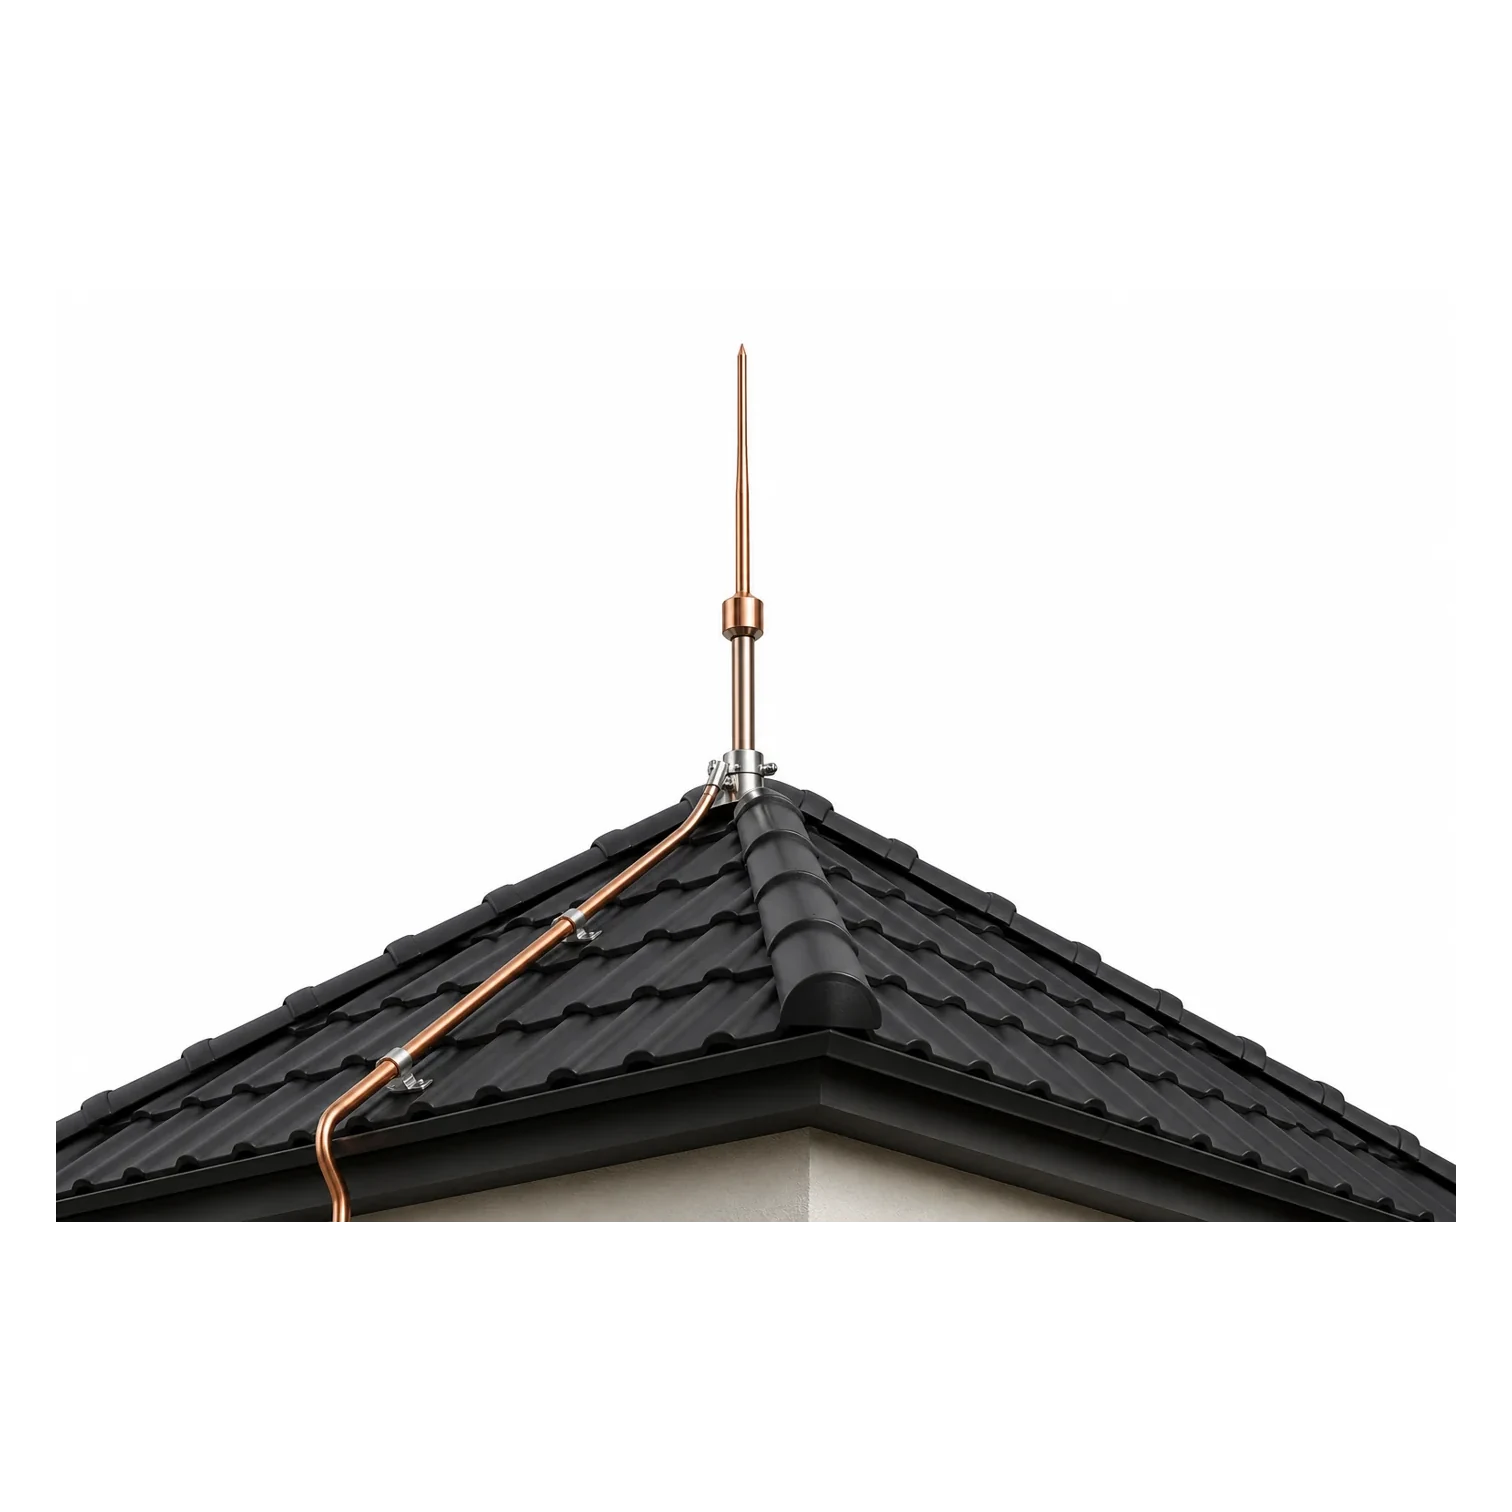
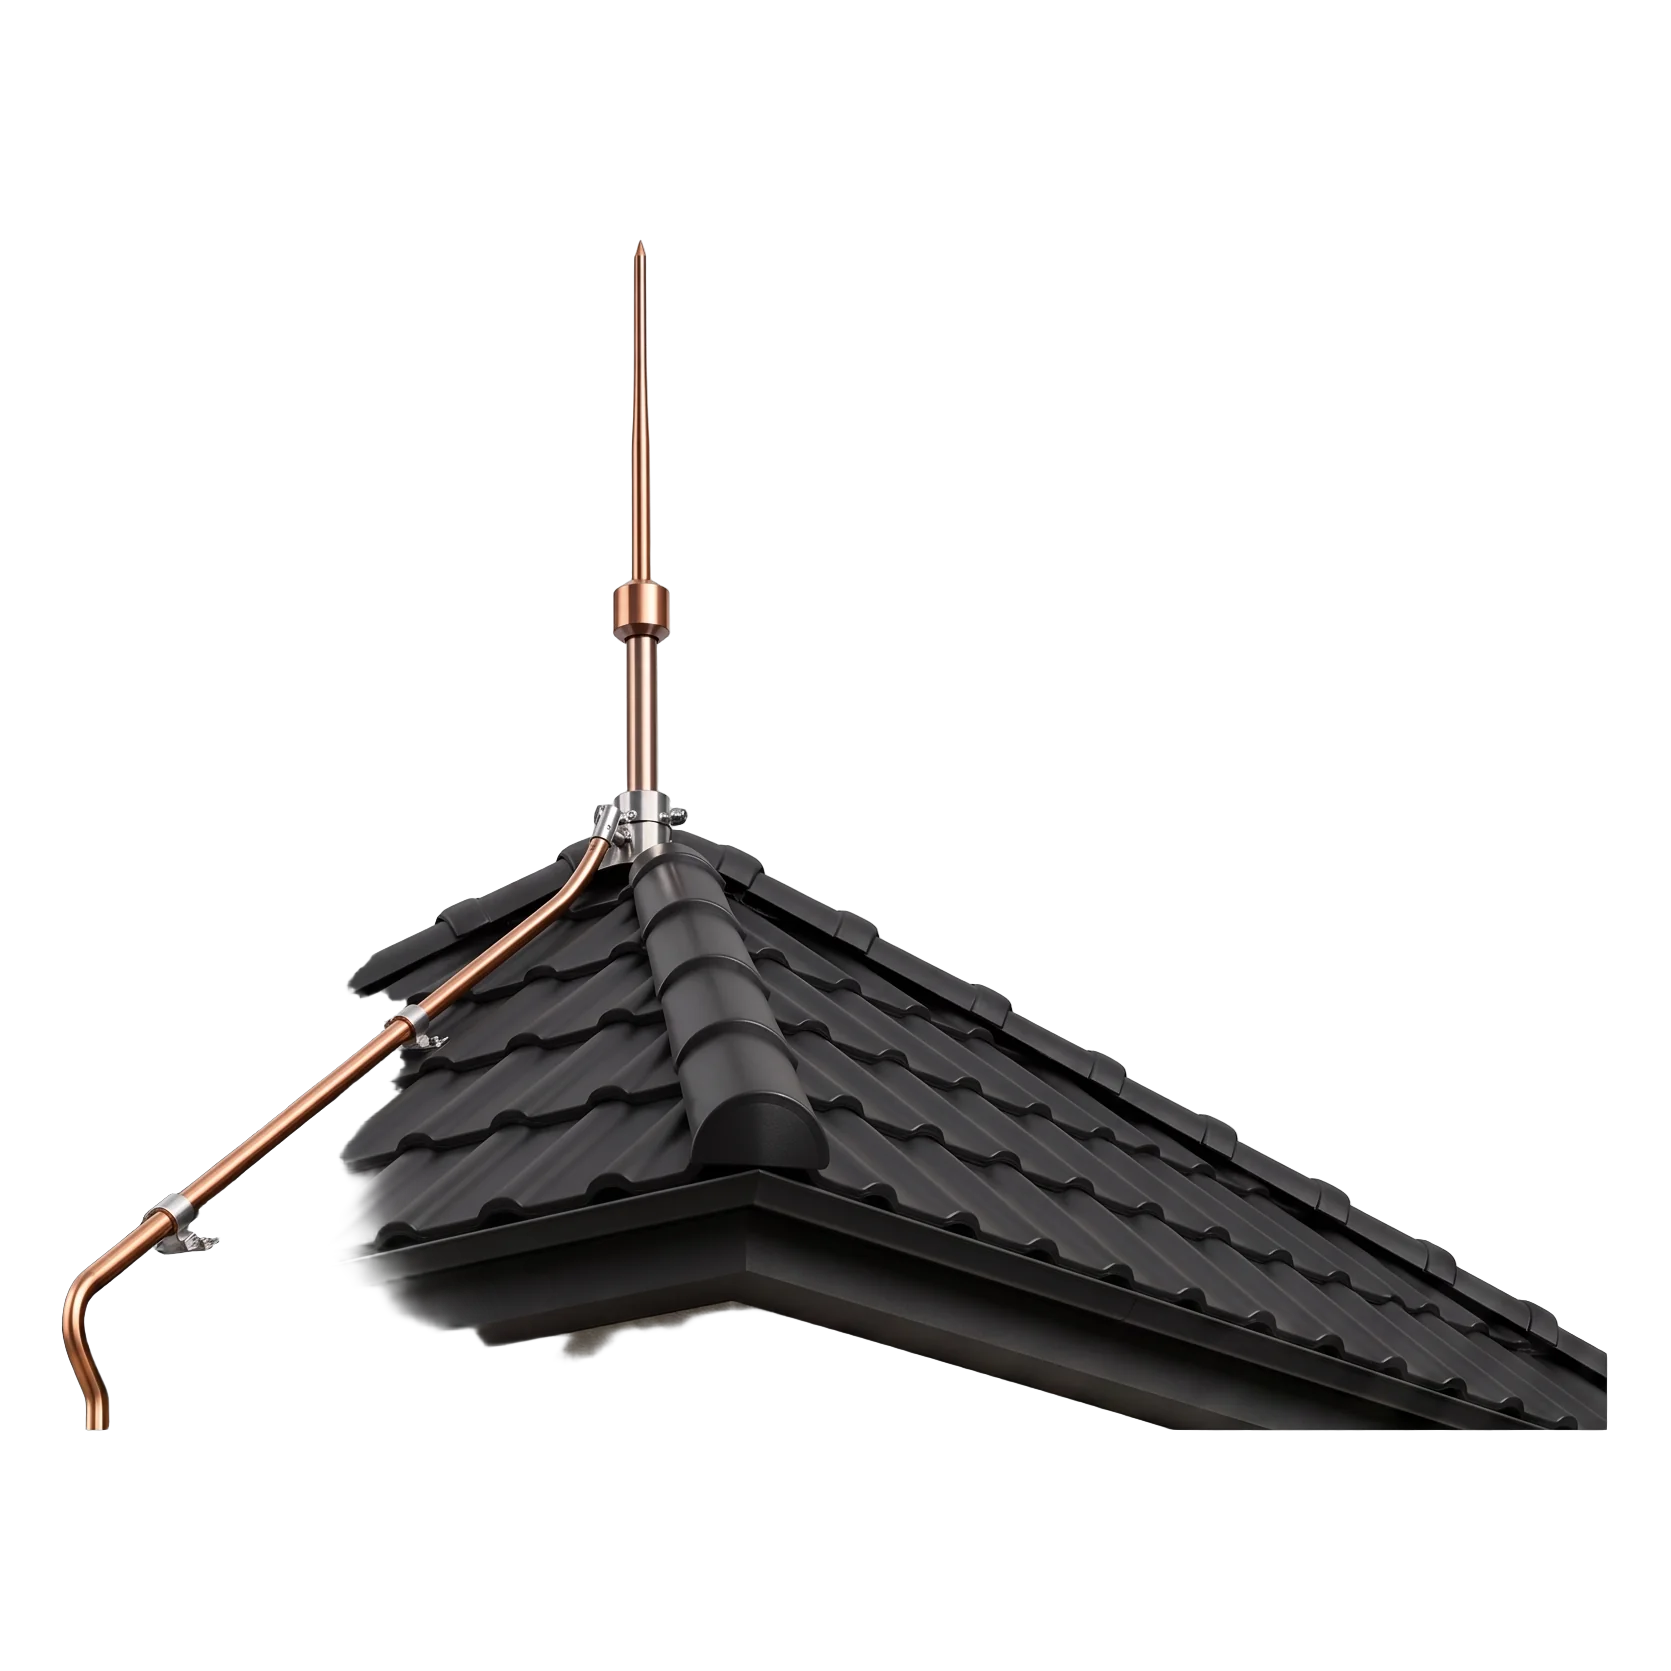
1

Changed region(s): [[0.0311, 0.1554, 0.9636, 0.8704]]

diff --git a/src/routes/index.tsx b/src/routes/index.tsx
@@ -18,6 +18,9 @@ import {
   CheckCircle2,
   Menu,
   X,
+  Handshake,
+  CalendarDays,
+  Truck,
 } from "lucide-react";
 import logo from "@/assets/mlm-logo.svg";
 import heroImage from "@/assets/hero-elektro.jpg";
@@ -162,7 +165,8 @@ const montazeCategories = [
       "Prípojky NN (nízke napätie)",
       "Projekcia a realizácia VN trafostaníc — zmluvný partner SSD",
       "Rozvádzače a ich osadenie",
-      "Elektroprojekty a dokumentácia",
+      "Projektová dokumentácia elektrického vedenia — NN, VN, VVN aj ZVN",
+      "Návrhy a statické posúdenia podporných bodov líniových stavieb",
       "Poradenská a inžinierska činnosť",
       "Údržba, servis a opravy",
       "Pretlaky pod cestou a chodníkom (rakety Grundomat, Atlas Copco)",
@@ -265,7 +269,7 @@ const revizie = [
   {
     icon: Gauge,
     title: "Účinník cos φ a kvalita siete",
-    desc: "Platíte za jalový výkon? Zmeriame účinník, harmonické skreslenie a výkyvy napätia a navrhneme kompenzáciu — investícia sa zvyčajne vráti do 12 mesiacov.",
+    desc: "Platíte za jalový výkon? Zmeriame účinník, harmonické skreslenie a výkyvy napätia a navrhneme kompenzáciu aj dekompenzáciu — vždy na mieru podľa nameraných hodnôt konkrétneho odberu, nie podľa šablóny. Investícia sa zvyčajne vráti do 12 mesiacov.",
   },
 ];
 
@@ -309,9 +313,9 @@ const rentals = [
   },
   {
     img: skidSteer,
-    title: "UNC nakladače",
+    title: "Locust 060",
     slogan: "Sila do úzkych miest",
-    desc: "Kompaktné šmykom riadené nakladače na presun materiálu a úpravy terénu.",
+    desc: "Kompaktný šmykom riadený nakladač na presun materiálu a úpravy terénu.",
   },
   {
     img: boomLift,
@@ -324,6 +328,12 @@ const rentals = [
     title: "Elektrocentrály",
     slogan: "Prúd aj tam, kde nie je zásuvka",
     desc: "Mobilné zdroje energie pre stavby, akcie a záložné napájanie prevádzok.",
+  },
+  {
+    icon: Truck,
+    title: "MAN TGS 41.500 8x6",
+    slogan: "Palfinger PK92002 — ťažký kalibr",
+    desc: "Nákladný hydraulický žeriav pre presun a osadenie ťažkých bremien priamo na stavbe.",
   },
 ];
 
@@ -367,11 +377,11 @@ const sortiment = [
 ];
 
 const stats = [
-  { num: "17+", label: "Rokov skúseností" },
-  { num: "52 kV", label: "Revízie do napätia" },
-  { num: "ISO", label: "Certifikát 9001" },
-  { num: "2", label: "Predajne v Prievidzi" },
-  { num: "SSD", label: "Zmluvný partner" },
+  { icon: CalendarDays, text: "17+ rokov" },
+  { icon: Zap, text: "52 kV" },
+  { icon: ShieldCheck, text: "ISO 9001" },
+  { icon: MapPin, text: "2 predajne" },
+  { icon: Handshake, text: "SSD partner" },
 ];
 
 const OWNER_PHONE = "0918 812 027";
@@ -527,42 +537,65 @@ function Index() {
           aria-hidden
           className="pointer-events-none absolute inset-x-0 bottom-0 h-px bg-gradient-to-r from-transparent via-primary to-transparent opacity-60"
         />
-        <div className="relative mx-auto max-w-7xl px-5 py-20 md:py-28">
-          <div className="grid items-center gap-12 lg:grid-cols-[1.05fr_0.95fr]">
-            <div>
-          <p className="inline-flex items-center gap-2 rounded-full border border-primary/25 bg-primary/5 px-4 py-1.5 font-mono text-xs font-semibold uppercase tracking-[0.35em] text-muted-foreground">
-            <span className="text-primary">M</span>eranie · <span className="text-primary">L</span>okalizácia ·{" "}
-            <span className="text-primary">M</span>ontáž
-          </p>
-          <h1 className="mt-7 max-w-[16ch] text-5xl uppercase italic leading-[0.95] tracking-tight md:text-7xl lg:text-8xl">
-            Napätie, ktoré{" "}
-            <span className="relative inline-block text-primary">
-              nesklame
-              <span
-                aria-hidden
-                className="absolute -bottom-1 left-0 h-[6px] w-full bg-primary/25 [clip-path:polygon(0_60%,100%_0,100%_100%,0%_100%)]"
-              />
-            </span>
-          </h1>
-          <p className="mt-7 max-w-xl text-lg text-muted-foreground">
-            Elektroinštalačný materiál, svietidlá a profi náradie, prenájom bágrov, UNC, plošín a elektrocentrál —
-            k tomu odborné revízie a merania do 52 kV, lokalizácia porúch aj fotovoltika. Prievidza od roku 2007.
-          </p>
-          <div className="mt-9 flex flex-wrap gap-3">
-            <a
-              href="#kontakt"
-              className="btn-shine rounded-full bg-primary px-7 py-3.5 font-mono text-xs font-semibold uppercase tracking-[0.14em] text-primary-foreground shadow-[0_14px_30px_-14px_color-mix(in_oklab,var(--brand-red)_80%,transparent)] transition-colors hover:bg-brand-dark"
-            >
-              Nezáväzná ponuka
-            </a>
-            <a
-              href="#revizie"
-              className="rounded-full border-2 border-foreground px-7 py-3.5 font-mono text-xs font-semibold uppercase tracking-[0.14em] transition-colors hover:bg-foreground hover:text-background"
-            >
-              Objednať revíziu →
-            </a>
-          </div>
+        <div className="relative mx-auto max-w-7xl px-5 py-20 md:py-28 lg:py-32">
+          <div className="grid items-center gap-12 lg:grid-cols-[1.1fr_0.9fr] lg:gap-16">
+            <div className="max-w-2xl">
+              <h1 className="text-4xl font-extrabold uppercase italic leading-[0.95] tracking-tight md:text-6xl lg:text-7xl">
+                Elektroinštalácie, revízie a prenájom techniky
+              </h1>
+              <p className="mt-4 text-xl font-medium italic text-primary md:text-2xl">
+                Napätie, ktoré nesklame
+              </p>
+              <p className="mt-6 max-w-xl text-sm font-mono font-semibold uppercase leading-relaxed tracking-[0.16em] text-muted-foreground">
+                Od roku 2007 · Revízie do 52 kV · Fotovoltika · Prenájom bágrov, plošín a elektrocentrál · Zmluvný
+                partner SSD
+              </p>
+
+              <div className="mt-8 flex flex-wrap items-center gap-2 md:flex-nowrap">
+                {stats.map((s) => {
+                  const Icon = s.icon;
+                  return (
+                    <div
+                      key={s.text}
+                      className="flex items-center gap-1.5 rounded-full border border-border bg-secondary px-3 py-1.5"
+                    >
+                      <Icon className="h-3.5 w-3.5 text-primary" strokeWidth={2} />
+                      <span className="font-mono text-[0.6rem] font-semibold uppercase tracking-wider text-foreground">
+                        {s.text}
+                      </span>
+                    </div>
+                  );
+                })}
+              </div>
+
+              <div className="mt-10 grid grid-cols-2 gap-3 sm:flex sm:flex-wrap">
+                <a
+                  href="#revizie"
+                  className="btn-shine rounded-full bg-primary px-6 py-3.5 text-center font-mono text-xs font-semibold uppercase tracking-[0.12em] text-primary-foreground shadow-[0_14px_30px_-14px_color-mix(in_oklab,var(--brand-red)_80%,transparent)] transition-colors hover:bg-brand-dark"
+                >
+                  Revízie
+                </a>
+                <a
+                  href="#prenajom"
+                  className="rounded-full border-2 border-foreground px-6 py-3.5 text-center font-mono text-xs font-semibold uppercase tracking-[0.12em] transition-colors hover:bg-foreground hover:text-background"
+                >
+                  Prenájom
+                </a>
+                <a
+                  href="#montaze"
+                  className="rounded-full border border-border bg-card px-6 py-3.5 text-center font-mono text-xs font-semibold uppercase tracking-[0.12em] text-foreground transition-colors hover:border-primary/50 hover:bg-secondary"
+                >
+                  Fotovoltika
+                </a>
+                <a
+                  href="#kontakt"
+                  className="rounded-full border border-border bg-card px-6 py-3.5 text-center font-mono text-xs font-semibold uppercase tracking-[0.12em] text-foreground transition-colors hover:border-primary/50 hover:bg-secondary"
+                >
+                  Kontakt
+                </a>
+              </div>
             </div>
+
             <div className="frame-brand relative overflow-hidden shadow-[0_30px_70px_-40px_color-mix(in_oklab,var(--brand-red)_75%,transparent)]">
               <img
                 src={heroImage}
@@ -576,34 +609,14 @@ function Index() {
                 className="pointer-events-none absolute inset-0 rounded-2xl bg-gradient-to-tr from-foreground/40 via-transparent to-primary/15"
               />
               <div className="absolute bottom-4 left-4 flex items-center gap-3 rounded-xl bg-background/92 px-4 py-2.5 shadow-lg backdrop-blur">
-                <img
-                  src={logo}
-                  alt="ELEKTRO-MLM"
-                  width={160}
-                  height={80}
-                  className="h-7 w-auto md:h-8"
-                />
+                <img src={logo} alt="ELEKTRO-MLM" width={160} height={80} className="h-7 w-auto md:h-8" />
                 <span className="hidden font-mono text-[0.6rem] font-semibold uppercase leading-tight tracking-[0.16em] text-muted-foreground sm:block">
                   Revízie · Prenájom
                   <br />
                   Fotovoltika
                 </span>
               </div>
-
             </div>
-          </div>
-          <div className="mt-14 grid max-w-3xl grid-cols-2 gap-3 md:grid-cols-5">
-
-            {stats.map((s, i) => (
-              <Reveal key={s.label} delay={i * 80} className={i === stats.length - 1 ? "col-span-2 md:col-span-1" : ""}>
-                <div className="card-lift h-full rounded-xl border border-border bg-secondary px-5 py-4">
-                  <div className="font-mono text-2xl font-bold leading-none text-primary">{s.num}</div>
-                  <div className="mt-1.5 font-mono text-[0.65rem] uppercase tracking-widest text-muted-foreground">
-                    {s.label}
-                  </div>
-                </div>
-              </Reveal>
-            ))}
           </div>
         </div>
       </section>
@@ -788,13 +801,13 @@ function Index() {
               Prenájom mechanizácie
             </p>
             <h2 className="mt-3 max-w-3xl text-4xl uppercase italic leading-[1] md:text-5xl">
-              Bágre · UNC · Plošiny · <span className="text-primary">Elektrocentrály</span>
+              Bágre · Locust · Plošiny · <span className="text-primary">Elektrocentrály</span>
             </h2>
             <p className="mt-4 max-w-xl text-muted-foreground">
               Požičiame na deň aj na celú stavbu. Stroje sú pripravené v Prievidzi — stačí zavolať.
             </p>
           </Reveal>
-          <div className="mt-12 grid gap-6 sm:grid-cols-2 lg:grid-cols-4">
+          <div className="mt-12 grid gap-6 sm:grid-cols-2 lg:grid-cols-3">
             {rentals.map((r, i) => (
               <Reveal key={r.title} delay={i * 90} className="h-full">
                 <article className="card-lift group flex h-full flex-col overflow-hidden rounded-2xl border border-border bg-card">
@@ -803,14 +816,20 @@ function Index() {
                       aria-hidden
                       className="pointer-events-none absolute inset-x-8 bottom-4 h-24 rounded-[50%] bg-primary/10 blur-xl transition-opacity duration-500 group-hover:bg-primary/25"
                     />
-                    <img
-                      src={r.img}
-                      alt={`Prenájom — ${r.title}`}
-                      loading="lazy"
-                      width={1024}
-                      height={1024}
-                      className="relative h-full w-full object-contain transition-transform duration-500 group-hover:scale-105 [filter:drop-shadow(0_10px_14px_color-mix(in_oklab,var(--foreground)_22%,transparent))]"
-                    />
+                    {r.img ? (
+                      <img
+                        src={r.img}
+                        alt={`Prenájom — ${r.title}`}
+                        loading="lazy"
+                        width={1024}
+                        height={1024}
+                        className="relative h-full w-full object-contain transition-transform duration-500 group-hover:scale-105 [filter:drop-shadow(0_10px_14px_color-mix(in_oklab,var(--foreground)_22%,transparent))]"
+                      />
+                    ) : (
+                      r.icon && (
+                        <r.icon className="relative h-20 w-20 text-primary transition-transform duration-500 group-hover:scale-105" strokeWidth={1.4} />
+                      )
+                    )}
                   </div>
                   <div className="p-6 pt-0">
                     <h3 className="text-2xl uppercase leading-none">{r.title}</h3>
